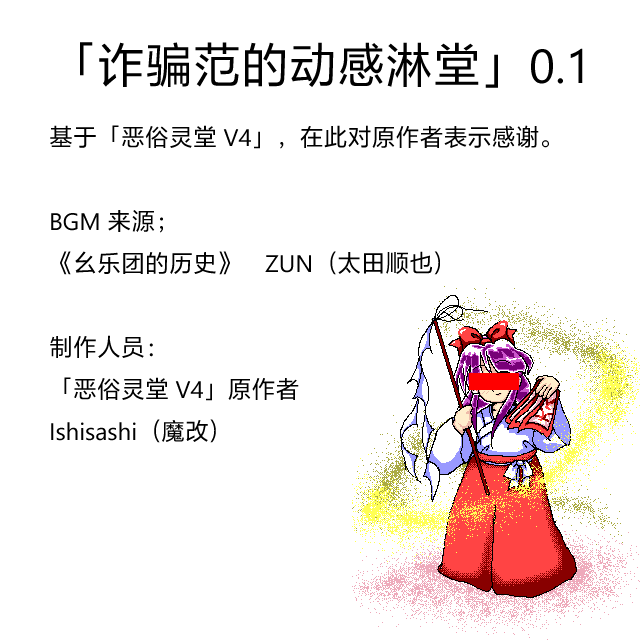
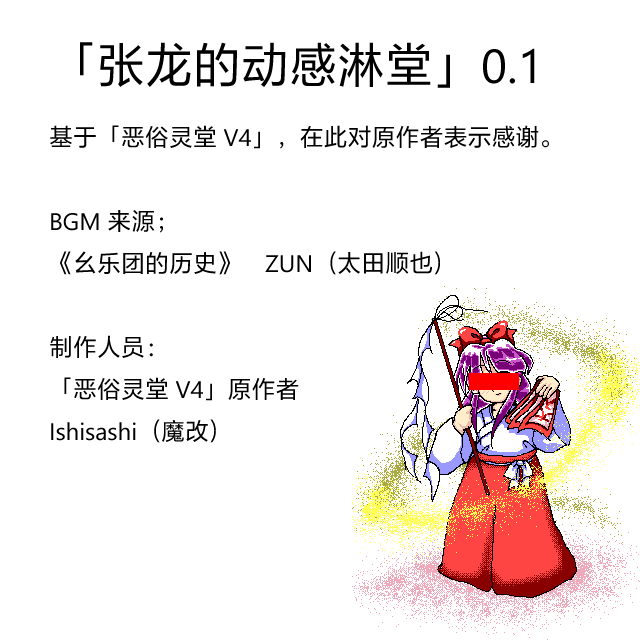
范一满→张龙

Changed region(s): [[0.1562, 0.0625, 0.9375, 0.1562]]

diff --git a/劲爆淋堂/main-pixi.js b/劲爆淋堂/main-pixi.js
@@ -1,6 +1,6 @@
 var app = new PIXI.Application(1060, 760, {forceFXAA: true,antialias:true,backgroundColor: colorHex(255,250,240)});//0x1099bb
 PIXI.settings.ROUND_PIXELS = true; PIXI.settings.RESOLUTION = 1;
-app.view.innerHTML = "范一满借钱不还，你也不至于用如此旧的浏览器吧？";
+app.view.innerHTML = "张龙到处背刺，你也不至于用如此旧的浏览器吧？";
 app.view.style = "position: fixed;left:0px; top:0px;cursor:default;"
 document.body.appendChild(app.view);
 if ("onmousewheel" in document) {
@@ -2579,7 +2579,7 @@ app.stage.addChild(textBigL); app.stage.addChild(textBigR); app.stage.addChild(t
 textBigL.anchor.set(0.5); textBigR.anchor.set(0.5); textTop.anchor.set(0.5);
 textBigL.style = bigTextStyle; textBigR.style = bigTextStyle; textTop.style = topTextStyle;
 textBigL.position.set(85,245); textBigR.position.set(975,245); textTop.position.set(530,29);
-textBigL.text = "灵\n魂\n永\n存"; textBigR.text = "满\n满\n千\n古"; textTop.text = "堂淋感动的范骗诈";
+textBigL.text = "梦\n断\n北\n堂"; textBigR.text = "香\n消\n玉\n殒"; textTop.text = "古千龙张";
 
 var pooArr = new Array(), pooArrTmp = new Array();
 function PooParticle(x, y){
@@ -3250,5 +3250,5 @@ function GetVolume(BufferArray,channel,AudioProcesser){
     delete sum;
 }
 
-console.log("%c欢迎来到俄苏维基诈骗范动感灵堂！"," color: #d00; font-family: Microsoft Yahei; font-weight:bolder; text-shadow: 0 1px 0 #ccc,0 2px 0 #c9c9c9,0 3px 0 #bbb,0 4px 0 #b9b9b9,0 5px 0 #aaa,0 6px 1px rgba(0,0,0,.1),0 0 5px rgba(0,0,0,.1),0 1px 3px rgba(0,0,0,.3),0 3px 5px rgba(0,0,0,.2),0 5px 10px rgba(0,0,0,.25),0 10px 10px rgba(0,0,0,.2),0 20px 20px rgba(0,0,0,.15);font-size:8em");
+console.log("%c欢迎来到俄苏维基张龙动感灵堂！"," color: #d00; font-family: Microsoft Yahei; font-weight:bolder; text-shadow: 0 1px 0 #ccc,0 2px 0 #c9c9c9,0 3px 0 #bbb,0 4px 0 #b9b9b9,0 5px 0 #aaa,0 6px 1px rgba(0,0,0,.1),0 0 5px rgba(0,0,0,.1),0 1px 3px rgba(0,0,0,.3),0 3px 5px rgba(0,0,0,.2),0 5px 10px rgba(0,0,0,.25),0 10px 10px rgba(0,0,0,.2),0 20px 20px rgba(0,0,0,.15);font-size:8em");
 console.log("%cIshisashi 修改。在此感谢原作者。"," color: #fff; background-image:repeating-linear-gradient(-50deg, #000, #000 5px, #666 5px, #666 10px);padding:0.5em");

diff --git a/劲爆淋堂/index.html b/劲爆淋堂/index.html
@@ -4,7 +4,7 @@
     <meta charset="UTF-8">
     <title>劲爆淋堂</title>
     <meta http-equiv="Access-Control-Allow-Origin" content="*">
-    <img id="photo" style ="display:none" src="萌萌的满满.png">
+    <img id="photo" style ="display:none" src="Screenshot_20190413_122715.png">
     <script src="onbeat.js"></script>
     <script src="bpm.js"></script>
     <script src="pixi.js"></script>
